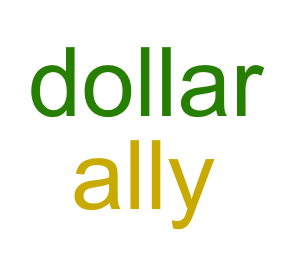
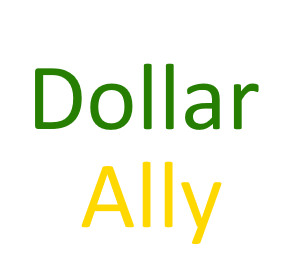
styling changes

Changed region(s): [[0.0934, 0.1733, 0.7785, 0.8953], [0.5606, 0.1444, 0.7785, 0.491], [0.8097, 0.231, 0.9343, 0.491]]

diff --git a/src/App.css b/src/App.css
@@ -137,7 +137,7 @@ main {
   letter-spacing: 1px;
   max-width: 800px;
   display: flex;
-  justify-content: space-around;
+  justify-content: center;
   margin: auto;
 }
 
@@ -200,13 +200,16 @@ main {
   font-size: 16px;
   text-align: center;
   font-weight: bold;
+  letter-spacing: 1px;
 }
 
 .proj-lower {
   padding: 25px;
   font-family: 'Dosis';
+  font-weight: 300;
   text-align: left;
-  letter-spacing: 1px;
+  letter-spacing: 1.1px;
+  font-size: 16px
 }
 
 .skills {
@@ -280,7 +283,7 @@ textarea {
   border-radius: 3px;
   border: 1px solid rgb(150, 150, 145);
   padding: 10px;
-  font-size: 14px;
+  font-size: 16px;
   font-family: 'Dosis';
 }
 
